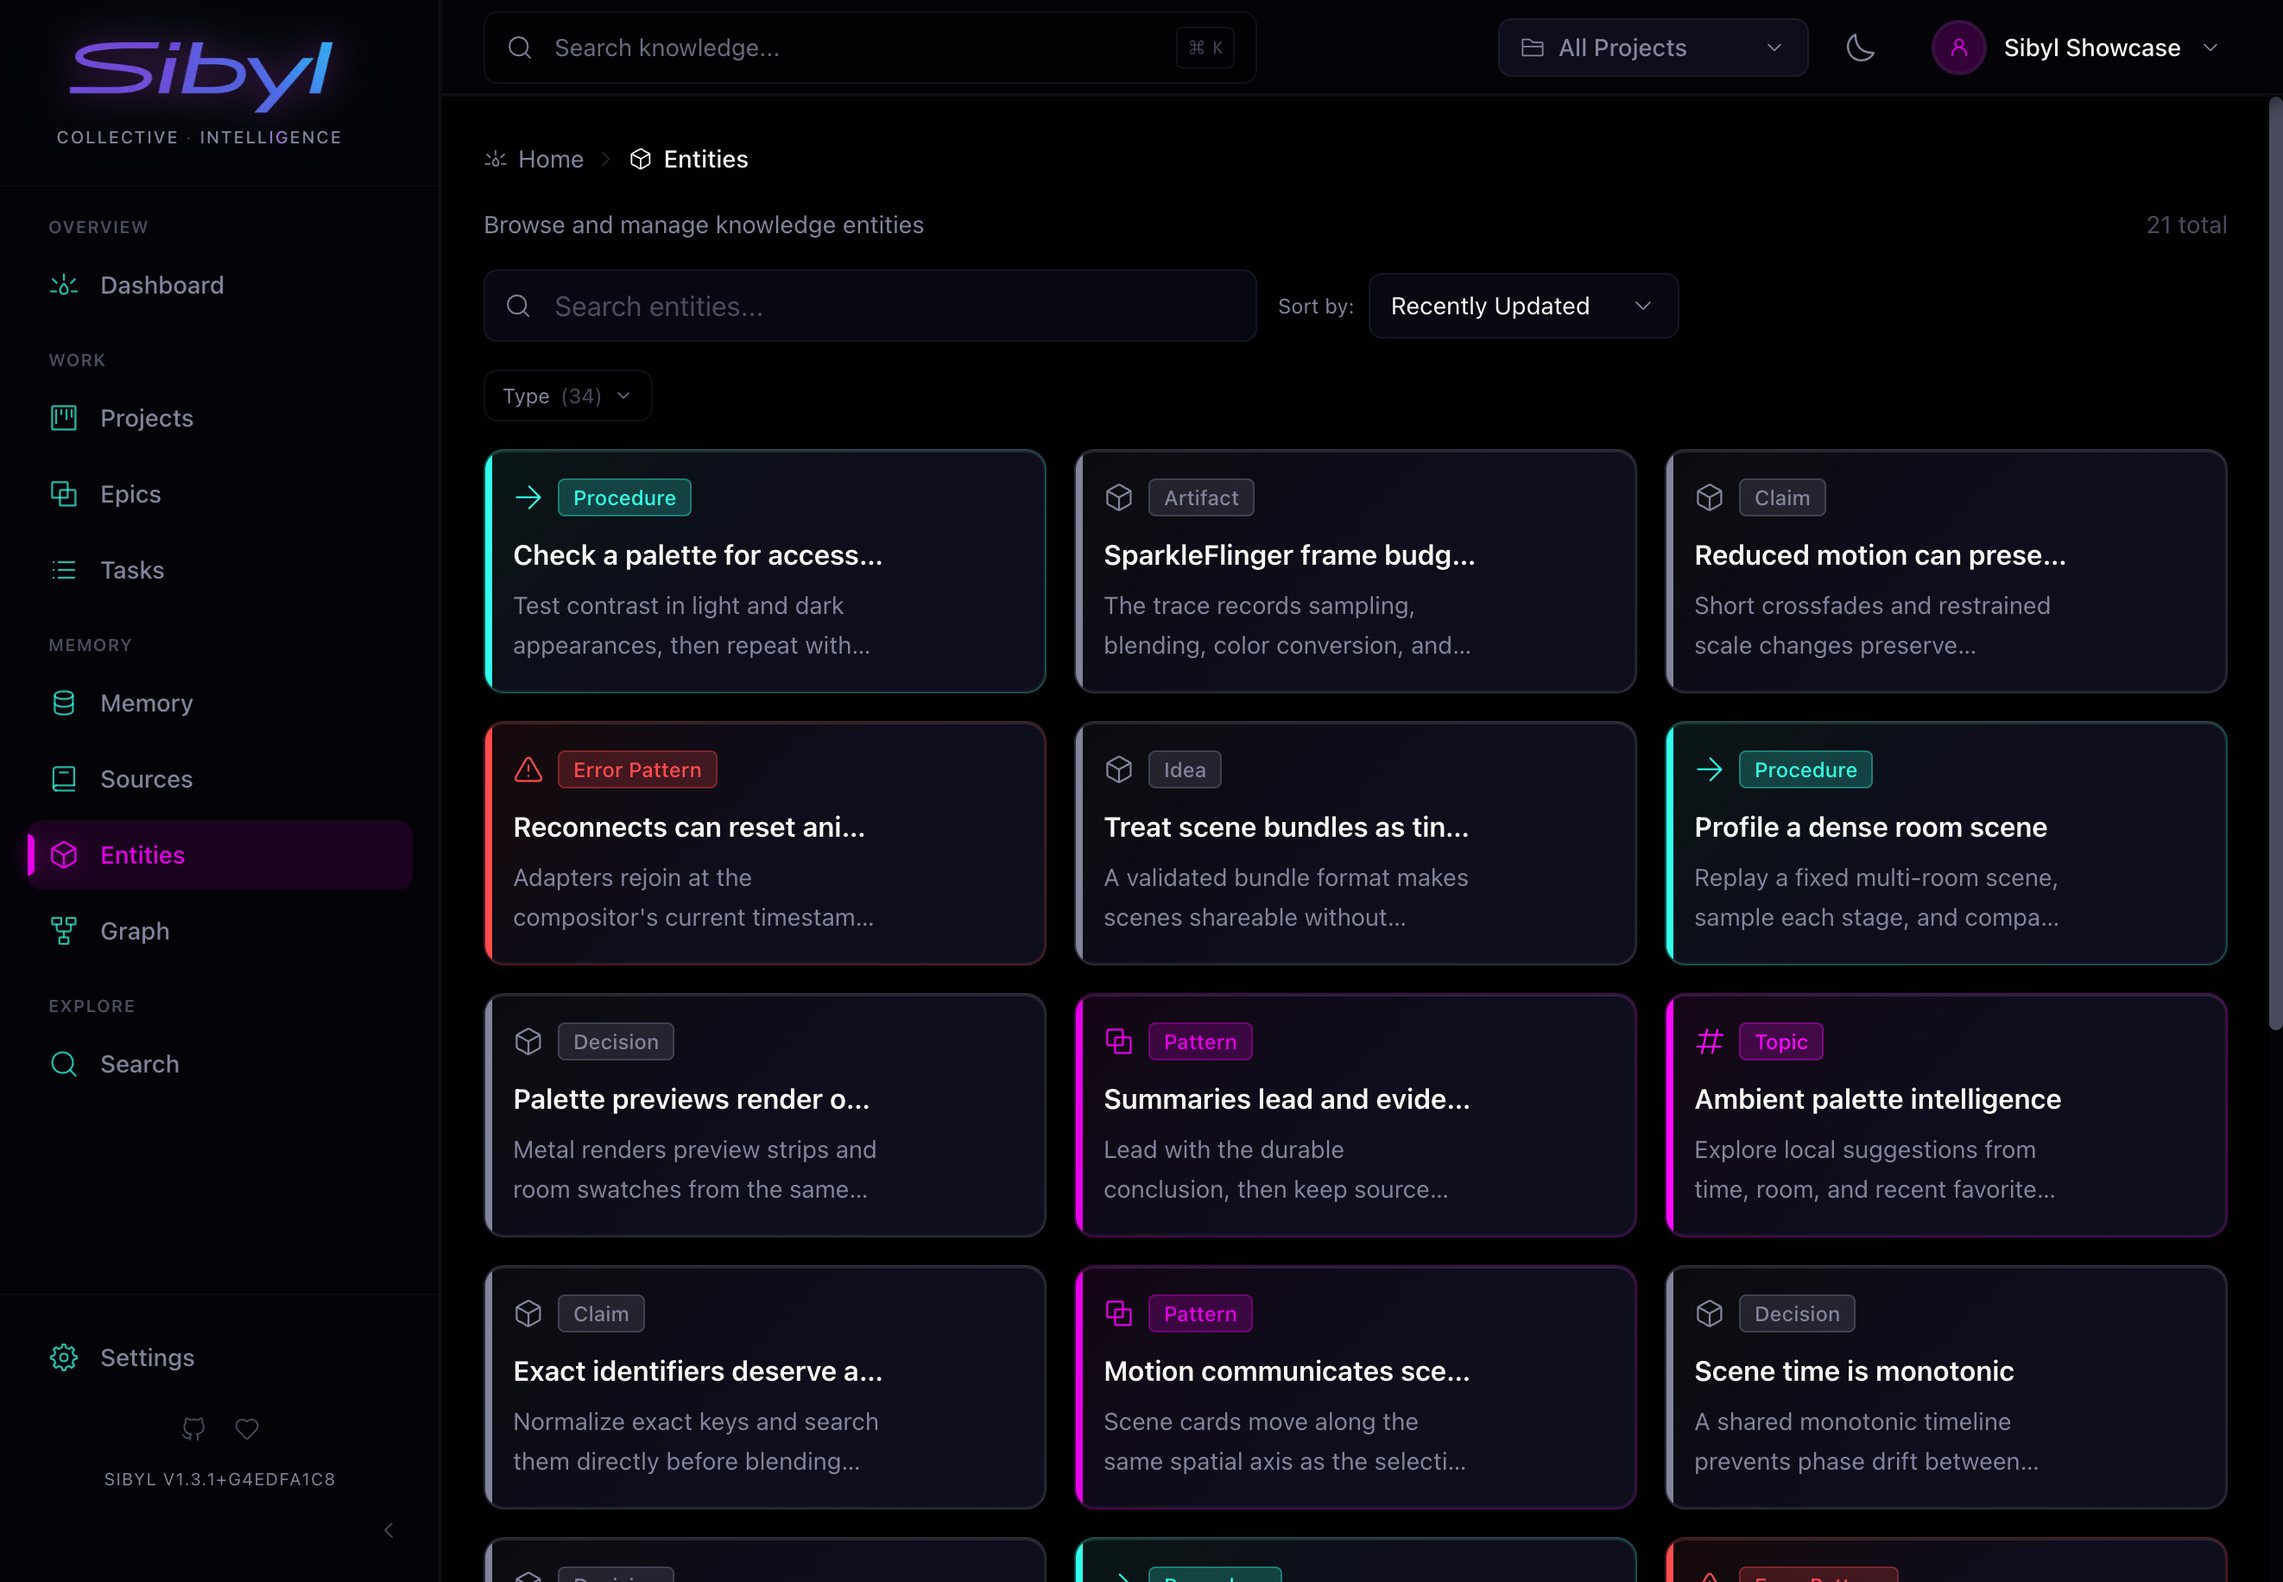
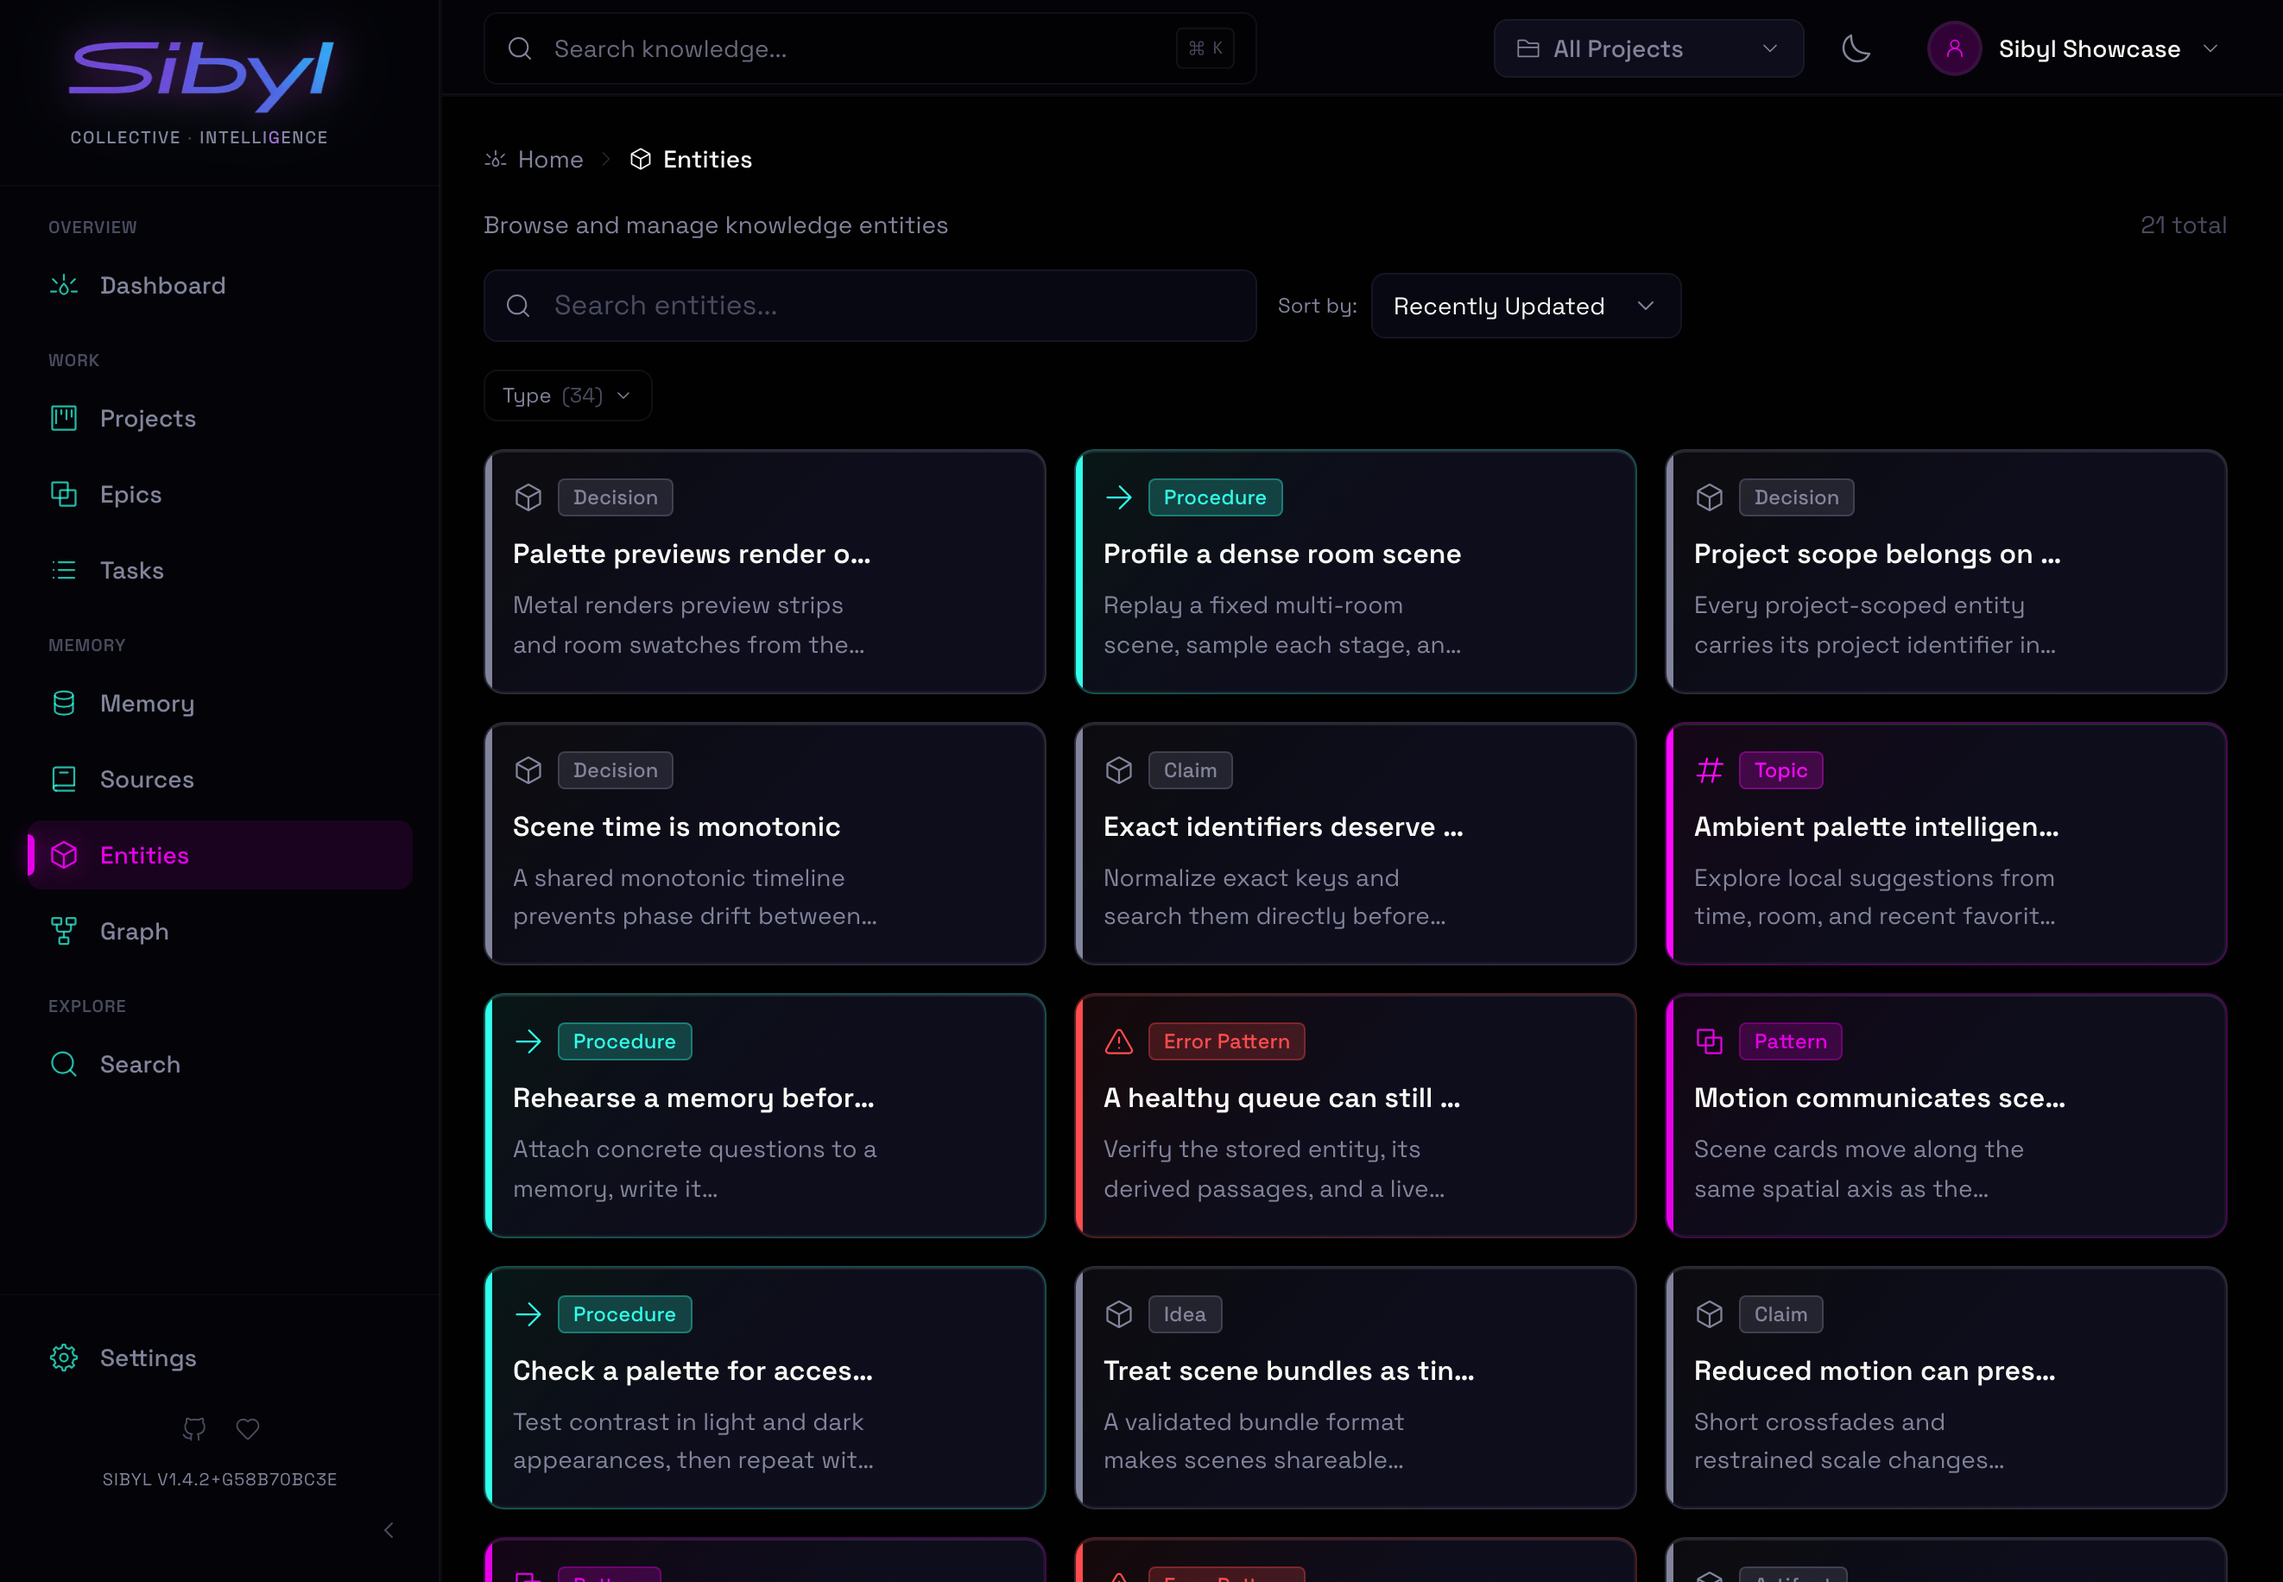
fix(web): render the app in its brand fonts and refresh screenshots on 1.4.2 (#739)
* fix(web): render body copy and code in the brand fonts

Body text, headings without an explicit font class, and inline code
were rendering in the system font. Tailwind emits the --font-sans and
--font-mono theme tokens on :root as var(--font-space-grotesk) and
var(--font-fira-code), but next/font defined those variables on
<body>. A custom property resolves var() where it is declared, so both
tokens went invalid at :root, body inherited the invalid value, and the
browser fell back to its default font.

The next/font variable classes now sit on <html>, so the tokens resolve
and globals.css keeps using var(--font-sans) and var(--font-mono) as
its single source. getComputedStyle(document.body).fontFamily read
-apple-system before the change and reads Space Grotesk after it.

* fix(web): draw graph labels in Fira Code

The graph canvas asked for "JetBrains Mono" for node labels and bubble
hints, and nothing in the web app loads that font, so labels drew in
the system monospace. They now use Fira Code, the app's loaded
monospace face.

* fix(web): name graph clusters the same in the legend and the canvas

The graph showed two names for one cluster. Bubbles and the faint label
behind an open domain used the domain map's server label ("Chromacat,
Check a palette for a..."), while the cluster legend and the selection
chip read the detail response's clusters, which carry no label, and
invented one from member names ("Chromacat, Palette prev...").
[…]

diff --git a/apps/web/src/components/graph/semantic-graph.test.ts b/apps/web/src/components/graph/semantic-graph.test.ts
@@ -7,6 +7,7 @@ import {
   type HierarchySource,
   LOOSE_CLUSTER_ID,
   LOOSE_NODE_ID,
+  withDomainLabels,
 } from './semantic-graph';
 import { clusterRadius } from './semantic-zoom';
 
@@ -104,6 +105,55 @@ function build(
 function ids(graph: { nodes: GraphNode[] }): string[] {
   return graph.nodes.map(node => node.id).sort();
 }
+
+describe('withDomainLabels', () => {
+  it('names unlabeled clusters with their domain-map label and keeps explicit labels', () => {
+    const clusters = response(
+      [],
+      [],
+      [
+        { id: 'a', member_count: 5 },
+        { id: 'b', member_count: 3, label: 'Explicit' },
+        { id: 'c', member_count: 2 },
+      ]
+    ).clusters;
+    const semantic = collectClusters({
+      overview: response(
+        [bubble('a', 5, 'Hypercolor, Profile a dense room scene'), bubble('b', 3, 'Map b')],
+        []
+      ),
+      detail: undefined,
+    });
+
+    expect(withDomainLabels(clusters, semantic).map(cluster => cluster.label)).toEqual([
+      'Hypercolor, Profile a dense room scene',
+      'Explicit',
+      undefined,
+    ]);
+  });
+});
+
+describe('withDomainLabels with the legend response as detail', () => {
+  it('leaves an unlabeled tail cluster for the member-name fallback', () => {
+    const detail = response(
+      [member('m1', 'c_bubble'), member('m2', 'c_tail')],
+      [{ source: 'm2', target: 'm1' }],
+      [
+        { id: 'c_bubble', member_count: 1 },
+        { id: 'c_tail', member_count: 1 },
+      ]
+    );
+    const semantic = collectClusters({
+      overview: response([bubble('c_bubble', 1, 'Hypercolor, Profile a dense room scene')], []),
+      detail,
+    });
+
+    expect(withDomainLabels(detail.clusters, semantic).map(cluster => cluster.label)).toEqual([
+      'Hypercolor, Profile a dense room scene',
+      undefined,
+    ]);
+  });
+});
 
 describe('collectClusters', () => {
   it('lists bubbles first, then a loose-ends bubble, then the hosted tail', () => {

diff --git a/apps/web/src/components/graph/use-graph-page-state.ts b/apps/web/src/components/graph/use-graph-page-state.ts
@@ -8,7 +8,7 @@ import type { Theme } from '@/lib/theme';
 import { getClusterLabel } from './cluster-legend';
 import { addNodeDegrees, createClusterColorMap, getRelatedEntities } from './graph-data';
 import type { GraphNode } from './graph-types';
-import { buildSemanticGraphData, collectClusters } from './semantic-graph';
+import { buildSemanticGraphData, collectClusters, withDomainLabels } from './semantic-graph';
 import {
   type ClusterExtent,
   countCollapsedInView,
@@ -340,12 +340,16 @@ export function useGraphPageState(theme: Theme) {
     () => getRelatedEntities(selectedNodeId, graphData),
     [graphData, selectedNodeId]
   );
+  const legendClusters = useMemo(
+    () => withDomainLabels(data?.clusters ?? [], semanticClusters),
+    [data?.clusters, semanticClusters]
+  );
   const selectedClusterLabel = useMemo(() => {
     if (!selectedCluster) return null;
-    const cluster = data?.clusters.find(item => item.id === selectedCluster);
+    const cluster = legendClusters.find(item => item.id === selectedCluster);
     if (cluster) return cluster.label || getClusterLabel(cluster, allNodesWithDegree);
     return semanticClusters.find(item => item.id === selectedCluster)?.label ?? null;
-  }, [selectedCluster, data?.clusters, allNodesWithDegree, semanticClusters]);
+  }, [selectedCluster, legendClusters, allNodesWithDegree, semanticClusters]);
 
   return {
     data,
@@ -363,6 +367,7 @@ export function useGraphPageState(theme: Theme) {
     selectedNodeId,
     selectedCluster,
     selectedClusterLabel,
+    legendClusters,
     selectedNodeRelated,
     clusterColorMap,
     allNodesWithDegree,

diff --git a/apps/web/src/components/graph/semantic-graph.ts b/apps/web/src/components/graph/semantic-graph.ts
@@ -1,4 +1,4 @@
-import type { HierarchicalGraphResponse } from '@/lib/api';
+import type { HierarchicalCluster, HierarchicalGraphResponse } from '@/lib/api';
 import { getEntityColor } from '@/lib/constants/entities';
 import type { GraphData, GraphLink, GraphNode } from './graph-types';
 import { clusterRadius, memberSeedPosition } from './semantic-zoom';
@@ -172,6 +172,29 @@ interface BuildArgs {
   searchTerm: string;
   /** Reused across rebuilds so d3 keeps positions for nodes that did not change level. */
   nodeCache: Map<string, GraphNode>;
+}
+
+/**
+ * Detail clusters often arrive without a label, and the legend would then
+ * invent one from member names that disagrees with the domain map. Give each
+ * unlabeled cluster the name its bubble and in-canvas label already use.
+ */
+export function withDomainLabels(
+  clusters: HierarchicalCluster[],
+  semanticClusters: SemanticCluster[]
+): HierarchicalCluster[] {
+  // Only bubbles carry a domain-map name. Tail clusters fall back to their
+  // id, which must not replace the legend's member-name fallback.
+  const domainLabels = new Map(
+    semanticClusters
+      .filter(cluster => cluster.hasBubble)
+      .map(cluster => [cluster.id, cluster.label])
+  );
+  return clusters.map(cluster => {
+    if (cluster.label) return cluster;
+    const label = domainLabels.get(cluster.id);
+    return label ? { ...cluster, label } : cluster;
+  });
 }
 
 export function buildSemanticGraphData({

diff --git a/apps/web/src/app/layout.tsx b/apps/web/src/app/layout.tsx
@@ -52,13 +52,20 @@ const themeScript = `
 
 export default function RootLayout({ children }: { children: ReactNode }) {
   return (
-    <html lang="en" suppressHydrationWarning>
+    // A custom property resolves var() where it is declared, so the :root
+    // theme tokens --font-sans and --font-mono need the next/font variables
+    // on <html>. On <body> they arrive too late and the tokens go invalid.
+    <html
+      lang="en"
+      className={`${spaceGrotesk.variable} ${firaCode.variable}`}
+      suppressHydrationWarning
+    >
       <head>
         {/* biome-ignore lint/security/noDangerouslySetInnerHtml: FOUC prevention requires inline script */}
         <script dangerouslySetInnerHTML={{ __html: themeScript }} />
         <PublicEnvScript />
       </head>
-      <body className={`${spaceGrotesk.variable} ${firaCode.variable} antialiased bg-sc-bg-dark`}>
+      <body className="antialiased bg-sc-bg-dark">
         <Providers>{children}</Providers>
       </body>
     </html>

diff --git a/apps/web/src/components/graph/graph-canvas.tsx b/apps/web/src/components/graph/graph-canvas.tsx
@@ -531,7 +531,7 @@ export const GraphCanvas = forwardRef<KnowledgeGraphRef, GraphCanvasProps>(funct
         const screenRadius = size * globalScale;
         if (screenRadius > SEMANTIC_ZOOM.EXPAND_SCREEN_RADIUS * SEMANTIC_ZOOM.DOMAIN_FIT_FRACTION) {
           const hintFont = Math.max(5, 9 / globalScale);
-          ctx.font = `${hintFont}px "JetBrains Mono", monospace`;
+          ctx.font = `${hintFont}px "Fira Code", monospace`;
           ctx.fillStyle = `${colors.fgMuted}cc`;
           ctx.fillText('zoom to open', x, y + size * 0.55);
         }
@@ -618,7 +618,7 @@ export const GraphCanvas = forwardRef<KnowledgeGraphRef, GraphCanvasProps>(funct
         const screenFontSize = 11; // desired size on screen in pixels
         const fontSize = screenFontSize / globalScale;
 
-        ctx.font = `${fontSize}px "JetBrains Mono", monospace`;
+        ctx.font = `${fontSize}px "Fira Code", monospace`;
         ctx.textAlign = 'center';
         ctx.textBaseline = 'top';
 

diff --git a/apps/web/src/app/(main)/graph/page.tsx b/apps/web/src/app/(main)/graph/page.tsx
@@ -133,10 +133,10 @@ function GraphPageContent() {
             onNodeClick={graph.handleNodeClick}
           />
 
-          {graph.data && graph.data.clusters.length > 0 && (
+          {graph.legendClusters.length > 0 && (
             <div className="absolute bottom-4 left-4 z-10 hidden md:block">
               <ClusterLegend
-                clusters={graph.data.clusters}
+                clusters={graph.legendClusters}
                 clusterColorMap={graph.clusterColorMap}
                 selectedCluster={graph.selectedCluster}
                 onClusterClick={graph.handleClusterClick}

diff --git a/docs/SCREENSHOTS_NEEDED.md b/docs/SCREENSHOTS_NEEDED.md
@@ -48,6 +48,20 @@ stay in a temporary directory until every route passes, then the complete set re
 files. Credentials stay in the browser and never enter a command line, environment variable, or
 committed file.
 
+### Capture without a sign-in window
+
+Set `SIBYL_SHOWCASE_WEB_URL` when the web app runs on another loopback port, and set
+`SIBYL_SHOWCASE_STORAGE_STATE` to a Playwright storage state saved after signing in as
+`sibyl-showcase@localhost`. With a storage state the capture skips the sign-in prompt and runs
+headless; without one it opens a visible browser as described above. To make one, sign in once in a
+Playwright browser and call `context.storageState({ path })`. A relative path resolves against the
+repository root, not the current directory. Keep the file outside the repository, because it holds
+the session cookies.
+
+Every capture page starts in the neon theme with the explicit every-project choice, because the web
+app otherwise opens on the most recently active project and the frames would show only part of the
+corpus.
+
 ## Capture set
 
 The capture task uses a 1322 by 916 viewport at 2x pixel density. Browser chrome stays out of the
